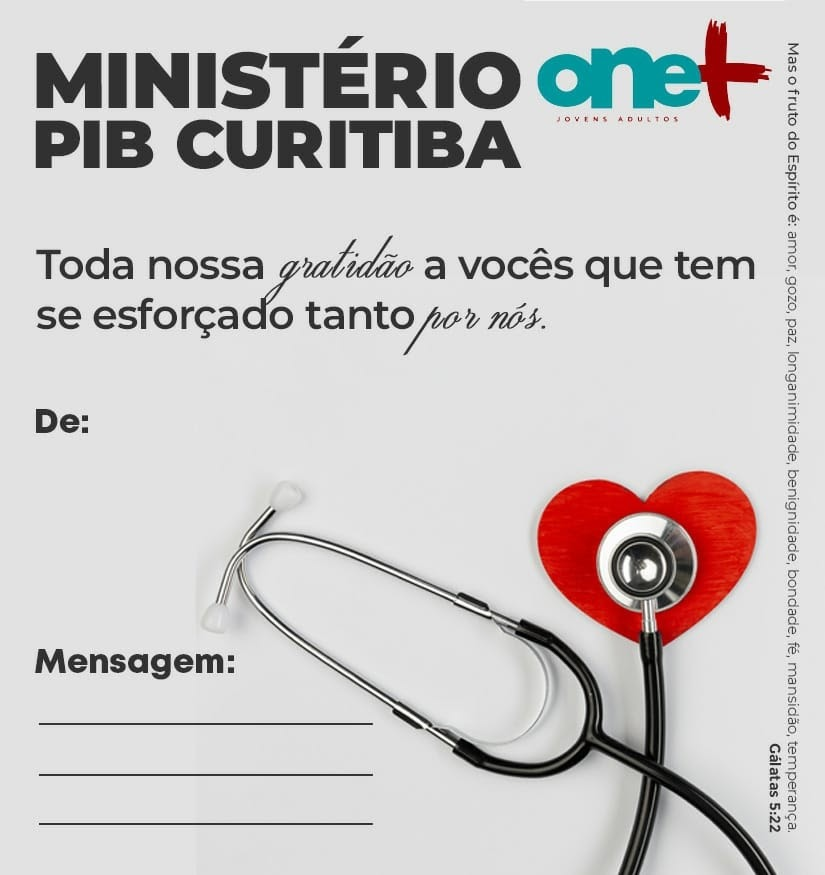
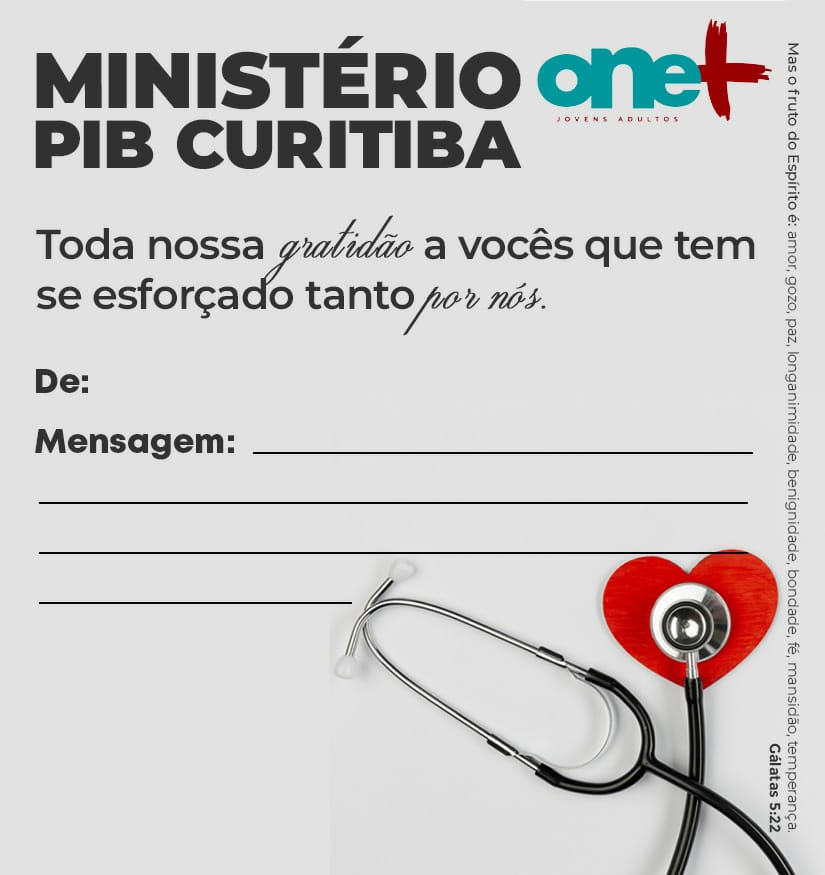
nem images
new images and text adjustment

Changed region(s): [[0.0303, 0.5246, 0.9697, 1.0], [0.0303, 0.2469, 0.9394, 0.5246]]

diff --git a/teste.html b/teste.html
@@ -1,4 +1,5 @@
-<!DOCTYPE html PUBLIC "-//W3C//DTD XHTML 1.0 Transitional//EN" "http://www.w3.org/TR/xhtml1/DTD/xhtml1-transitional.dtd">
+
+<!DOCTYPE html PUBLIC "-//W3C//DTD XHTML 1.0 Transitional//EN" "http://www.w3.org/TR/xhtml1/DTD/xhtml1-transitional.dtd">
 <html xmlns="http://www.w3.org/1999/xhtml">
 <head>
     <title></title>
@@ -172,7 +173,6 @@
                   DIV_MESSAGE.style.position = "absolute";
                   DIV_MESSAGE.style.top = "380px";
                   DIV_MESSAGE.style.left = "200px";
-                  DIV_MESSAGE.style.width = "380px";
                   //DIV_MESSAGE.style.wordWrap = "normal"
                   return DIV_MESSAGE;
         }
